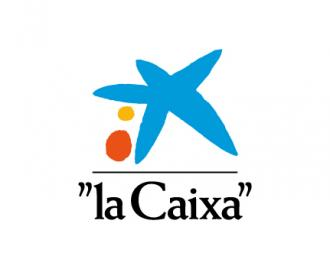
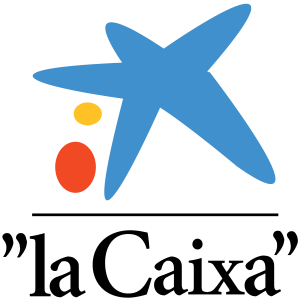
Update HeaderImage

diff --git a/src/components/HeaderImage/HeaderImage.js b/src/components/HeaderImage/HeaderImage.js
@@ -8,7 +8,16 @@ export default function HeaderImage({
 }) {
   src = require(`../../assets/${src}.png`)
   return (
-    <img className={s.headerImg} alt={alt} src={src} />
+    <div className="row">
+      <button href="/">
+        <div className="colg-lg-12">
+          <img className={s.headerImg} alt={alt} src={src} />
+        </div>
+        <div className="colg-lg-12">
+          <span>{span}</span>
+        </div>
+      </button>
+    </div>
   )
 }
 HeaderImage.propTypes = {

diff --git a/src/components/HeaderImage/HeaderImage.scss b/src/components/HeaderImage/HeaderImage.scss
@@ -1,4 +1,4 @@
 .headerImg{
-  width: 20px;
-  height: 20px;
+  width: 100px;
+  height: 100px;
 }

diff --git a/src/components/HeaderImage/Readme.md b/src/components/HeaderImage/Readme.md
@@ -1,3 +1,3 @@
 ```jsx
-<HeaderImage/>
+<HeaderImage span='texto'/>
 ```
